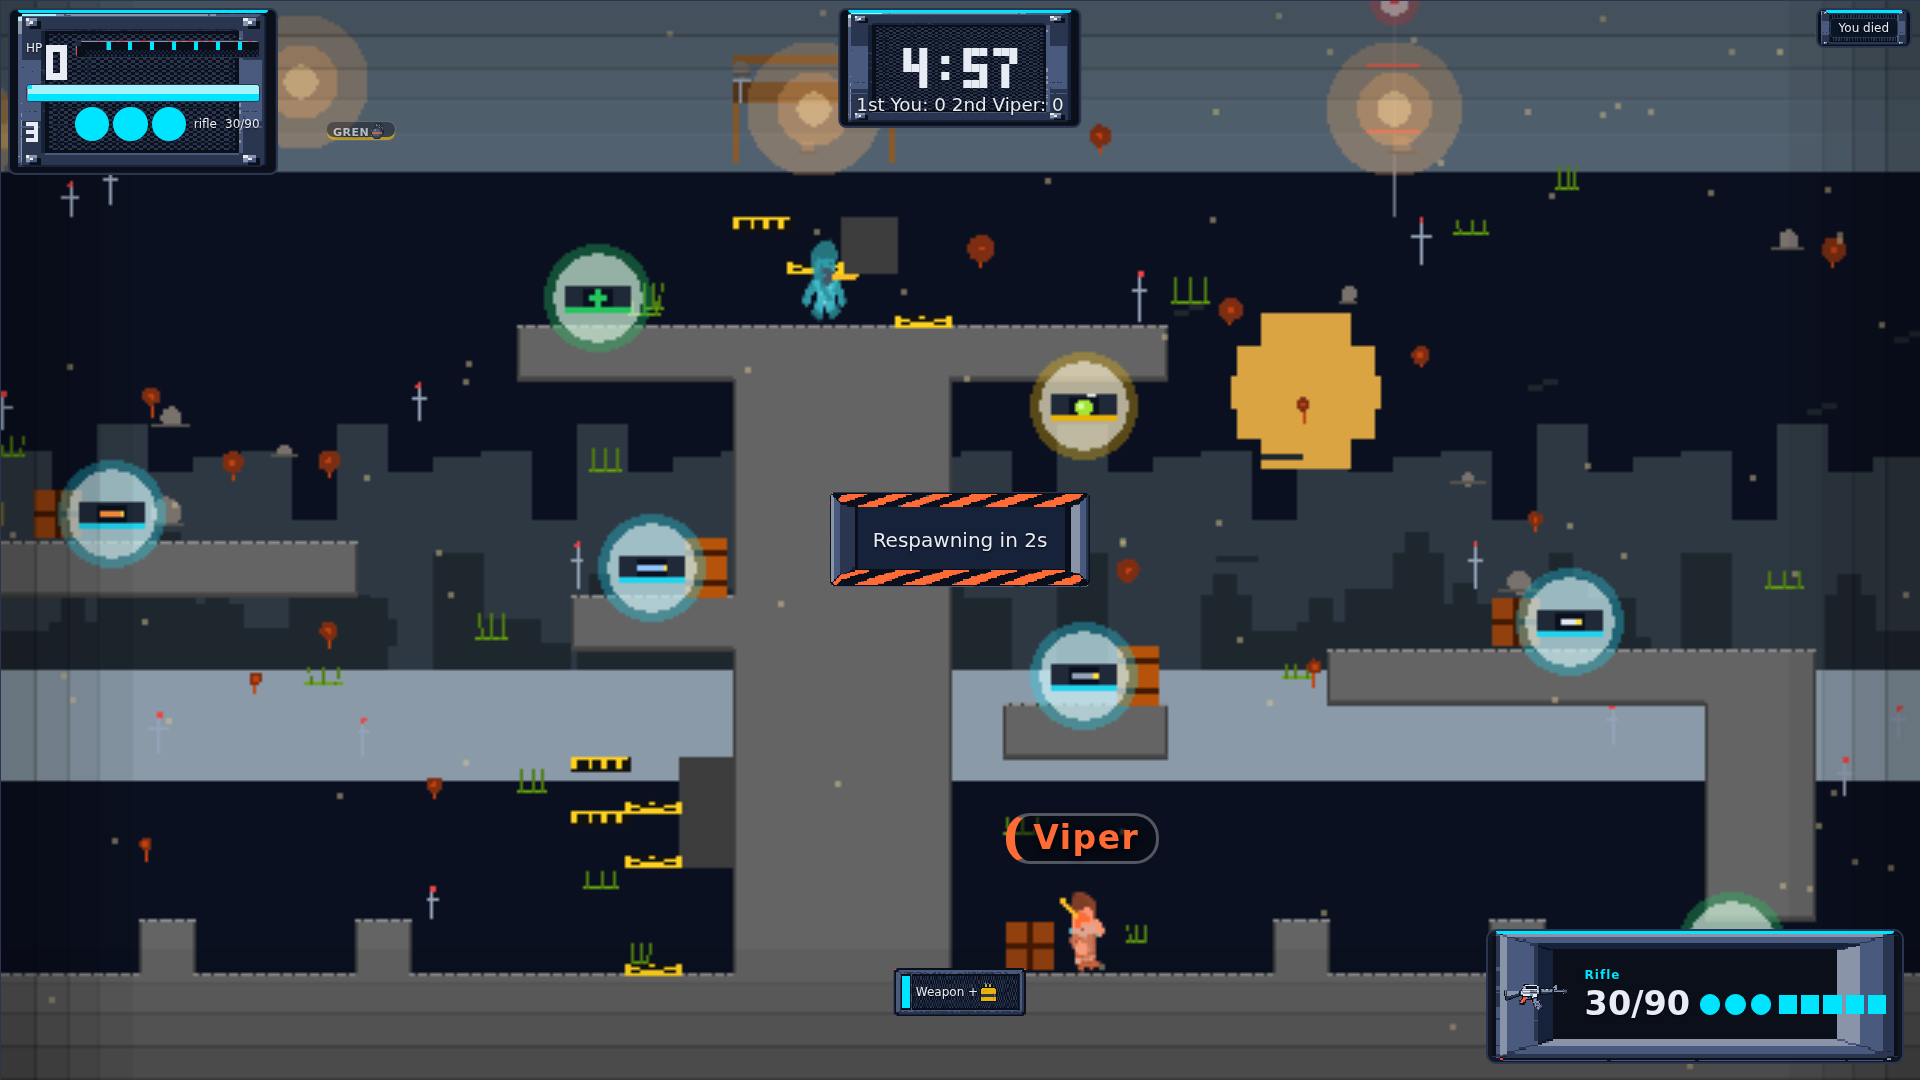
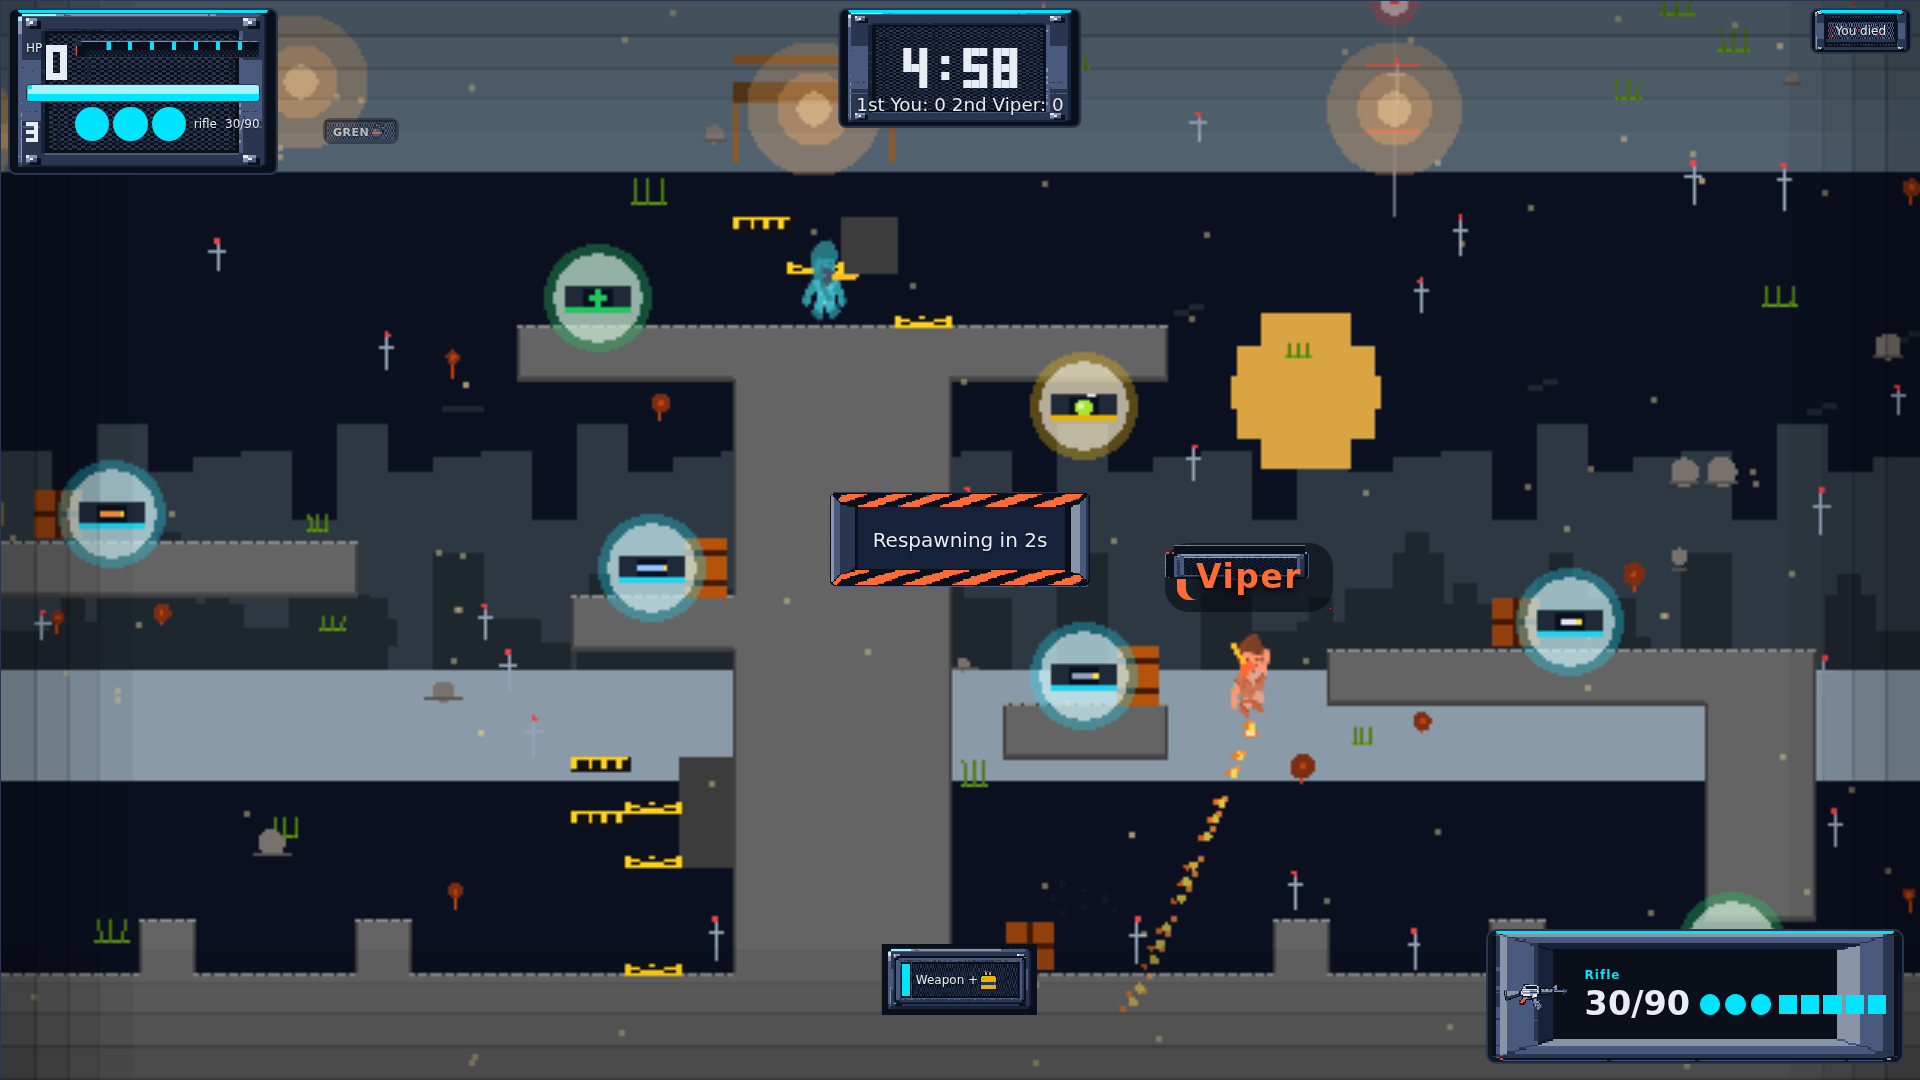
[#394] Art coverage: name tags, pad labels, kill-feed rows and toast still render as plain CSS (#404)
* [#394] Art coverage: plate name tags, pad labels, kill rows, toast stack

Nine-slice frames for the four live surfaces whose generated art
still rendered as plain CSS: nametags ride the tailed tooltip plate
(HU-12) at full scale, pad labels and kill-feed rows ride the row
band (HU-08/HU-13) at 1x, and the #toast stack takes the 12px panel
frame while entries keep their toast strip (HU-15/CH-18). Stretch
repeat with pixelated rendering throughout; no new background tiling.

The plates carry the frame, the code carries the colour: the team
rail returns as an inset currentColor shadow (paintTag still paints
style.color per teamCss, own tags keep rail plus glow), the pickup
underline stays on the binder's inline box-shadow, killer/victim
span colours are untouched, and own kill rows swap to the selected
band via the code-owned own class.

Deliberately left without art: #nametags/#padlabels containers
(positioning overlays — framing them would box the viewport),
kill-entry flash tint (scale pop carries it; the plate covers the
transient tint), icon wells and name spans (already art/text colour),
crosshair/scope (token reticles per #349).

* [#394] Re-run node scripts/verify-ui.js mid-match capture lap

ALL GREEN: 16 captures, fps mean 45.3, budget ok, tiling ok,
art diffs within threshold 60 (midmatch-hud 45.3/45.1).

diff --git a/tests/hud-float-plates.test.js b/tests/hud-float-plates.test.js
@@ -1,0 +1,182 @@
+// HUD floating-surface plates (issue #394): name tags, pad labels,
+// kill-feed rows, and the toast stack ride their sliced art as 9-slice
+// frames while the code keeps carrying the colour (team rails, pickup
+// underlines, entry text). Static CSS scans only (no browser in CI):
+// each surface resolves a ui/ plate with stretch repeat and pixelated
+// rendering, slices stay on the 4px grid with integer render scaling,
+// and no rule touches the code-owned colour layers.
+const { test } = require("node:test");
+const assert = require("node:assert/strict");
+const fs = require("node:fs");
+const path = require("node:path");
+
+const ROOT = path.join(__dirname, "..");
+const CHROME_CSS = path.join(ROOT, "packages", "client", "public", "components", "chrome.css");
+const ATLAS_DIR = path.join(ROOT, "packages", "client", "assets", "atlas");
+const SRC_HTML = path.join(ROOT, "packages", "client", "index.html");
+const NAMETAGS_TS = path.join(ROOT, "packages", "client", "src", "ui", "nametags.ts");
+const PADLABELS_TS = path.join(ROOT, "packages", "client", "src", "ui", "padlabels.ts");
+const FEED_TS = path.join(ROOT, "packages", "client", "src", "ui", "feed.ts");
+
+function css() {
+  return fs.readFileSync(CHROME_CSS, "utf8");
+}
+
+/** Escape a selector for literal regex use. */
+function escaped(selector) {
+  return selector.replace(/[.*+?^${}()|[\]\\]/g, "\\$&");
+}
+
+/**
+ * Bodies of every rule block whose selector list contains `selector`
+ * (the house `#stage X, X` dual-selector idiom).
+ */
+function ruleBodies(source, selector) {
+  const out = [];
+  const chunks = source.split("}");
+  for (const chunk of chunks) {
+    const brace = chunk.indexOf("{");
+    if (brace === -1) {
+      continue;
+    }
+    const head = chunk.slice(0, brace);
+    if (new RegExp(escaped(selector)).test(head)) {
+      out.push(chunk.slice(brace + 1));
+    }
+  }
+  return out;
+}
+
+/** First declaration value for `prop` inside a rule body (or null). */
+function declarationValue(body, prop) {
+  const match = new RegExp(`${prop}\\s*:\\s*([^;]+);`).exec(body || "");
+  return match === null ? null : match[1].trim();
+}
+
+test("nametags ride the tailed tooltip plate at full scale with a currentColor rail", () => {
+  const source = css();
+  const bodies = ruleBodies(source, "#nametags > div");
+  assert.ok(bodies.length >= 1, "chrome.css must plate #nametags > div");
+  const merged = bodies.join("\n");
+  assert.match(merged, /url\("\.\.\/assets\/atlas\/ui\/tooltip\.png"\)/, "nametag plate must be ui/tooltip.png");
+  assert.match(merged, /border-image-slice\s*:\s*8\s+8\s+20\s+8\s+fill/, "nametag slice must be 8 8 20 8 fill");
+  assert.match(merged, /border-image-width\s*:\s*8px\s+8px\s+20px\s+8px/, "nametag widths must be 8px 8px 20px 8px");
+  assert.match(merged, /border-image-repeat\s*:\s*stretch/, "nametag repeat must be stretch");
+  assert.match(merged, /image-rendering\s*:\s*pixelated/, "nametag plate must stay pixelated");
+  // Full-scale 1:1 rendering on the 4px grid (the .sl-tooltip idiom
+  // verbatim): every slice and width token divides by 4, so the
+  // chrome-art 9-slice guardrail holds with zero resampling.
+  // The team rail: an inset currentColor shadow (no hardcoded hex),
+  // so paintTag's style.color keeps carrying the teamCss colour.
+  const shadow = declarationValue(merged, "box-shadow");
+  assert.ok(shadow !== null, "nametag rule must carry the rail shadow");
+  assert.match(shadow, /inset\s+3px\s+0/, "rail must read inset 3px 0");
+  assert.doesNotMatch(shadow, /#[0-9a-fA-F]{3,6}/, "rail must use currentColor, never a hardcoded hex");
+});
+
+test("own nametag keeps the rail plus the cyan glow", () => {
+  const source = css();
+  const bodies = ruleBodies(source, "#nametags > div.own");
+  assert.ok(bodies.length >= 1, "chrome.css must keep an own-nametag rule");
+  const merged = bodies.join("\n");
+  const shadow = declarationValue(merged, "box-shadow");
+  assert.ok(shadow !== null, "own nametag must set box-shadow");
+  assert.match(shadow, /inset\s+3px\s+0/, "own tag must keep the team rail");
+  assert.match(shadow, /0\s+0\s+8px/, "own tag must keep the glow pop");
+});
+
+test("pad labels ride the plain row band at 1x without touching the accent", () => {
+  const source = css();
+  const bodies = ruleBodies(source, "#padlabels > div");
+  assert.ok(bodies.length >= 1, "chrome.css must plate #padlabels > div");
+  const merged = bodies.join("\n");
+  assert.match(merged, /url\("\.\.\/assets\/atlas\/ui\/row\.png"\)/, "pad label plate must be ui/row.png");
+  assert.match(merged, /border-image-slice\s*:\s*4\s+fill/, "pad label slice must be 4 fill");
+  assert.match(merged, /border-image-width\s*:\s*4px/, "pad label width must be 4px");
+  assert.match(merged, /border-image-repeat\s*:\s*stretch/, "pad label repeat must be stretch");
+  assert.match(merged, /image-rendering\s*:\s*pixelated/, "pad label plate must stay pixelated");
+  // The pickup underline stays code-owned: the plate rule must not
+  // set box-shadow or background, which would fight the binder's
+  // inline accent (and the token fill from the per-sheet styles).
+  assert.equal(declarationValue(merged, "box-shadow"), null, "pad label plate must not set box-shadow");
+  assert.equal(declarationValue(merged, "background"), null, "pad label plate must not set background");
+});
+
+test("kill-feed rows ride the row band; own rows swap to the selected band", () => {
+  const source = css();
+  const bodies = ruleBodies(source, "#killfeed .kill-entry");
+  assert.ok(bodies.length >= 1, "chrome.css must plate #killfeed .kill-entry");
+  const merged = bodies.join("\n");
+  assert.match(merged, /url\("\.\.\/assets\/atlas\/ui\/row\.png"\)/, "kill rows must ride ui/row.png");
+  assert.match(merged, /border-image-slice\s*:\s*4\s+fill/, "kill row slice must be 4 fill");
+  assert.match(merged, /border-image-width\s*:\s*4px/, "kill row width must be 4px");
+  assert.match(merged, /border-image-repeat\s*:\s*stretch/, "kill row repeat must be stretch");
+  // Local-player rows keep their distinction through the selected
+  // plate (the standings-winner idiom), chosen by the code-owned
+  // `own` class — never by a hardcoded row colour.
+  const own = ruleBodies(source, "#killfeed .kill-entry.own").join("\n");
+  assert.match(own, /url\("\.\.\/assets\/atlas\/ui\/row\.selected\.png"\)/, "own rows must ride ui/row.selected.png");
+  assert.match(own, /var\(--color-cyan\)/, "own row border must reference the cyan token");
+  // Entry text and flash behaviour stay code-owned: no color or
+  // background declarations on the plated rows.
+  assert.equal(declarationValue(merged, "background"), null, "kill rows must not set background");
+  assert.equal(declarationValue(merged, "color"), null, "kill rows must not set color");
+});
+
+test("toast stack takes the panel frame with an :empty guard", () => {
+  const source = css();
+  const bodies = ruleBodies(source, "#toast");
+  assert.ok(bodies.length >= 1, "chrome.css must plate #toast");
+  const merged = bodies.join("\n");
+  assert.match(merged, /url\("\.\.\/assets\/atlas\/ui\/panel\.png"\)/, "toast stack must ride ui/panel.png");
+  assert.match(merged, /border-image-slice\s*:\s*12\s+fill/, "toast stack slice must be 12 fill");
+  assert.match(merged, /border-image-width\s*:\s*12px/, "toast stack width must be 12px");
+  assert.match(merged, /border-image-repeat\s*:\s*stretch/, "toast stack repeat must be stretch");
+  // The idle container (zero entries) must stay invisible: no stray
+  // panel frame with nothing inside it.
+  const guard = ruleBodies(source, "#toast:empty").join("\n");
+  assert.match(guard, /border\s*:\s*0/, ":empty toast must drop the border");
+  // Entries keep their existing strip plate (untouched by this lap).
+  const entries = ruleBodies(source, "#toast .toast-entry").join("\n");
+  assert.match(entries, /url\("\.\.\/assets\/atlas\/ui\/toast\.png"\)/, "toast entries must keep ui/toast.png");
+});
+
+test("new plates never tile: stretch only, pixelated, ui/ art on disk", () => {
+  const source = css();
+  for (const selector of ["#nametags > div", "#padlabels > div", "#killfeed .kill-entry", "#toast"]) {
+    const merged = ruleBodies(source, selector).join("\n");
+    assert.doesNotMatch(merged, /background-repeat\s*:\s*repeat\b/, `${selector} must never set a repeating background`);
+    assert.doesNotMatch(
+      merged,
+      /border-image-repeat\s*:\s*(repeat|round|space)/,
+      `${selector} must 9-slice with stretch, never tile`,
+    );
+  }
+  const manifest = JSON.parse(fs.readFileSync(path.join(ATLAS_DIR, "manifest.json"), "utf8"));
+  for (const [key, file] of [
+    ["ui.tooltip", "ui/tooltip.png"],
+    ["ui.row", "ui/row.png"],
+    ["ui.row.selected", "ui/row.selected.png"],
+    ["ui.toast", "ui/toast.png"],
+    ["ui.panel", "ui/panel.png"],
+  ]) {
+    assert.equal(manifest[key] && manifest[key].file, file, `manifest ${key} must pin ${file}`);
+    assert.ok(fs.existsSync(path.join(ATLAS_DIR, file)), `${file} must exist on disk`);
+  }
+});
+
+test("code still carries the colour: binders paint rails, accents, and names", () => {
+  const html = fs.readFileSync(SRC_HTML, "utf8");
+  for (const id of ["nametags", "padlabels", "toast", "killfeed"]) {
+    assert.ok(html.includes(`id="${id}"`), `index.html must keep mounting #${id}`);
+  }
+  const tags = fs.readFileSync(NAMETAGS_TS, "utf8");
+  assert.match(tags, /\["color"\]\s*=\s*color/, "nametags binder must keep painting style.color");
+  assert.match(tags, /tagColorFor/, "nametag colour must still flow from the teamCss helper");
+  const pads = fs.readFileSync(PADLABELS_TS, "utf8");
+  assert.match(pads, /\["boxShadow"\]\s*=\s*underline/, "padlabels binder must keep painting the accent underline");
+  assert.match(pads, /data-accent/, "padlabels must keep mirroring the accent for probes");
+  const feed = fs.readFileSync(FEED_TS, "utf8");
+  assert.match(feed, /paintName\(victim, entry\.victimColor\)/, "feed must keep painting the victim team colour");
+  assert.match(feed, /paintName\(killer, entry\.killerColor\)/, "feed must keep painting the killer team colour");
+});

diff --git a/packages/client/public/components/chrome.css b/packages/client/public/components/chrome.css
@@ -380,6 +380,85 @@ button[data-map][aria-pressed="true"] {
   border-image-repeat: stretch;
   image-rendering: pixelated;
 }
+/* In-match floating surfaces (issue #394): the four live surfaces
+  whose generated art still rendered as plain CSS — name tags
+  (HU-12), pad labels (HU-13), kill-feed rows (HU-08), and the toast
+  stack (HU-15/CH-18). Each rides its sliced plate as a 9-slice frame
+  with stretch repeat and pixelated rendering, mirroring the
+  .sl-tooltip / .challenge-row / .sl-panel idioms above; the plates
+  carry the frame while the code keeps carrying the colour (the team
+  rails, the pickup underlines, and the entry text all stay on the
+  code-owned layers the binders already paint). Boxes and rhythm stay
+  owned by the per-sheet stylesheets; this section only skins them.
+  Nametags ride the tailed tooltip plate at full scale (the
+  .sl-tooltip idiom verbatim: every slice and width sits on the 4px
+  grid), so the rail, checker, and pointer tail render exactly as
+  sliced; the team rail the plate covers returns as an inset
+  currentColor shadow (no binder change: paintTag already paints
+  style.color per teamCss). Pad labels and kill rows ride the plain
+  row band at 1x so the pickup underline (inline box-shadow) and the
+  killer/victim span colours keep painting over it; local-player rows
+  swap to the selected band, mirroring the standings winner idiom. */
+#stage #nametags > div,
+#nametags > div {
+  border: 4px solid var(--color-edge);
+  border-image-source: url("../assets/atlas/ui/tooltip.png");
+  border-image-slice: 8 8 20 8 fill;
+  border-image-width: 8px 8px 20px 8px;
+  border-image-repeat: stretch;
+  image-rendering: pixelated;
+  box-shadow: inset 3px 0;
+}
+#stage #nametags > div.own,
+#nametags > div.own {
+  box-shadow:
+    inset 3px 0,
+    0 0 8px rgba(0, 229, 255, 0.9);
+}
+#stage #padlabels > div,
+#padlabels > div {
+  border: 4px solid var(--color-edge);
+  border-image-source: url("../assets/atlas/ui/row.png");
+  border-image-slice: 4 fill;
+  border-image-width: 4px;
+  border-image-repeat: stretch;
+  image-rendering: pixelated;
+}
+#stage #killfeed .kill-entry,
+#killfeed .kill-entry {
+  border: 4px solid var(--color-edge);
+  border-image-source: url("../assets/atlas/ui/row.png");
+  border-image-slice: 4 fill;
+  border-image-width: 4px;
+  border-image-repeat: stretch;
+  image-rendering: pixelated;
+}
+#stage #killfeed .kill-entry.own,
+#killfeed .kill-entry.own {
+  border: 4px solid var(--color-cyan);
+  border-image-source: url("../assets/atlas/ui/row.selected.png");
+  border-image-slice: 4 fill;
+  border-image-width: 4px;
+  border-image-repeat: stretch;
+}
+/* Toast stack frame (issue #394): the entries already ride the
+  toast strip above, but the #toast container itself resolved no
+  image. It takes the 12px panel frame (the .sl-panel idiom) so the
+  stack reads as one card; :empty drops the border so the idle
+  container stays invisible (no stray frame with zero entries). */
+#stage #toast,
+#toast {
+  border: 12px solid var(--color-edge);
+  border-image-source: url("../assets/atlas/ui/panel.png");
+  border-image-slice: 12 fill;
+  border-image-width: 12px;
+  border-image-repeat: stretch;
+  image-rendering: pixelated;
+}
+#stage #toast:empty,
+#toast:empty {
+  border: 0;
+}
 /* Keycap plate for control labels. */
 #stage .sl-keycap,
 .sl-keycap {
